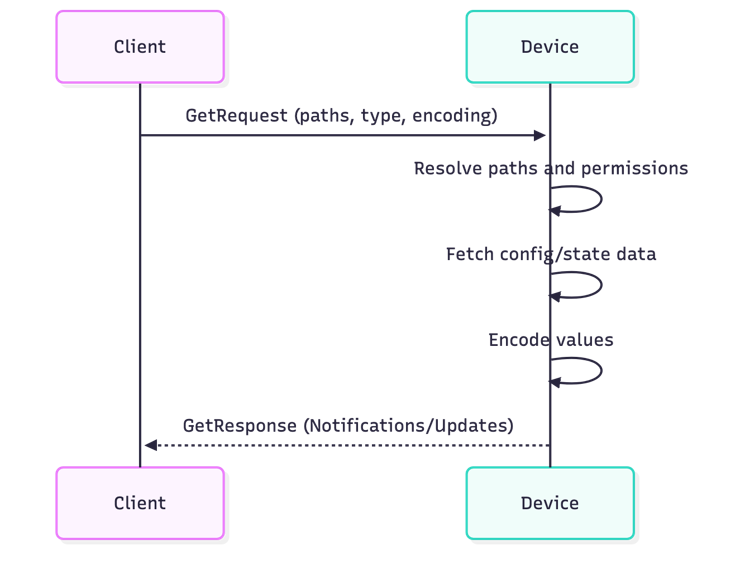
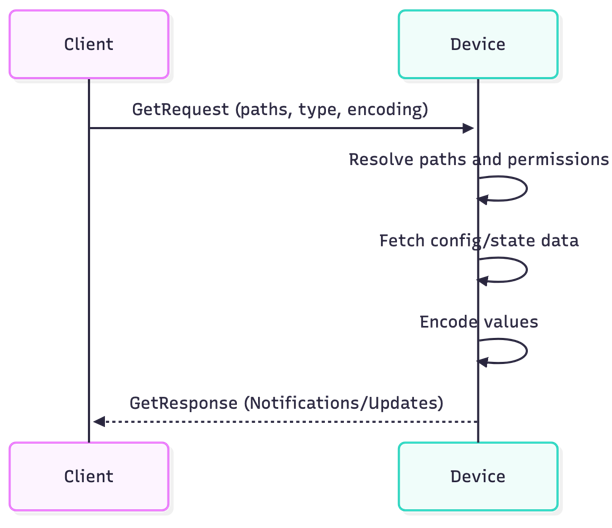
changed background of get RPC illustration

Changed region(s): [[0.0, 0.0, 0.9935, 0.9697]]

diff --git a/README.md b/README.md
@@ -79,7 +79,7 @@ gnmic get --skip-verify --username admin --password NokiaSrl1! 3 --address leaf0
 ]
 ```
 The following diagram illustrates how a client issues a `Get` RPC to a gNMI-enabled device and how the device processes the request internally:
-![Procedure of get RPC](gNMI_Get.png)
+![Graphical illustration of a get RPC](gNMI_Get.png)
 
 ### Set RPC
 To __set / override / remove__ a value for an attribute such as the description of an Interface the Set RPC can be used. This RPC sends a SetRequest containing upto 3 lists containing paths and attributes to either be updated, replaced or deleted. Once the device receives this call it will validate the provided credentials, paths and schema. From there on atomic transactions are derived for each individual attribute. Once commited a corresponding SetResponse is returned to the Client listing all acknowledged paths.
